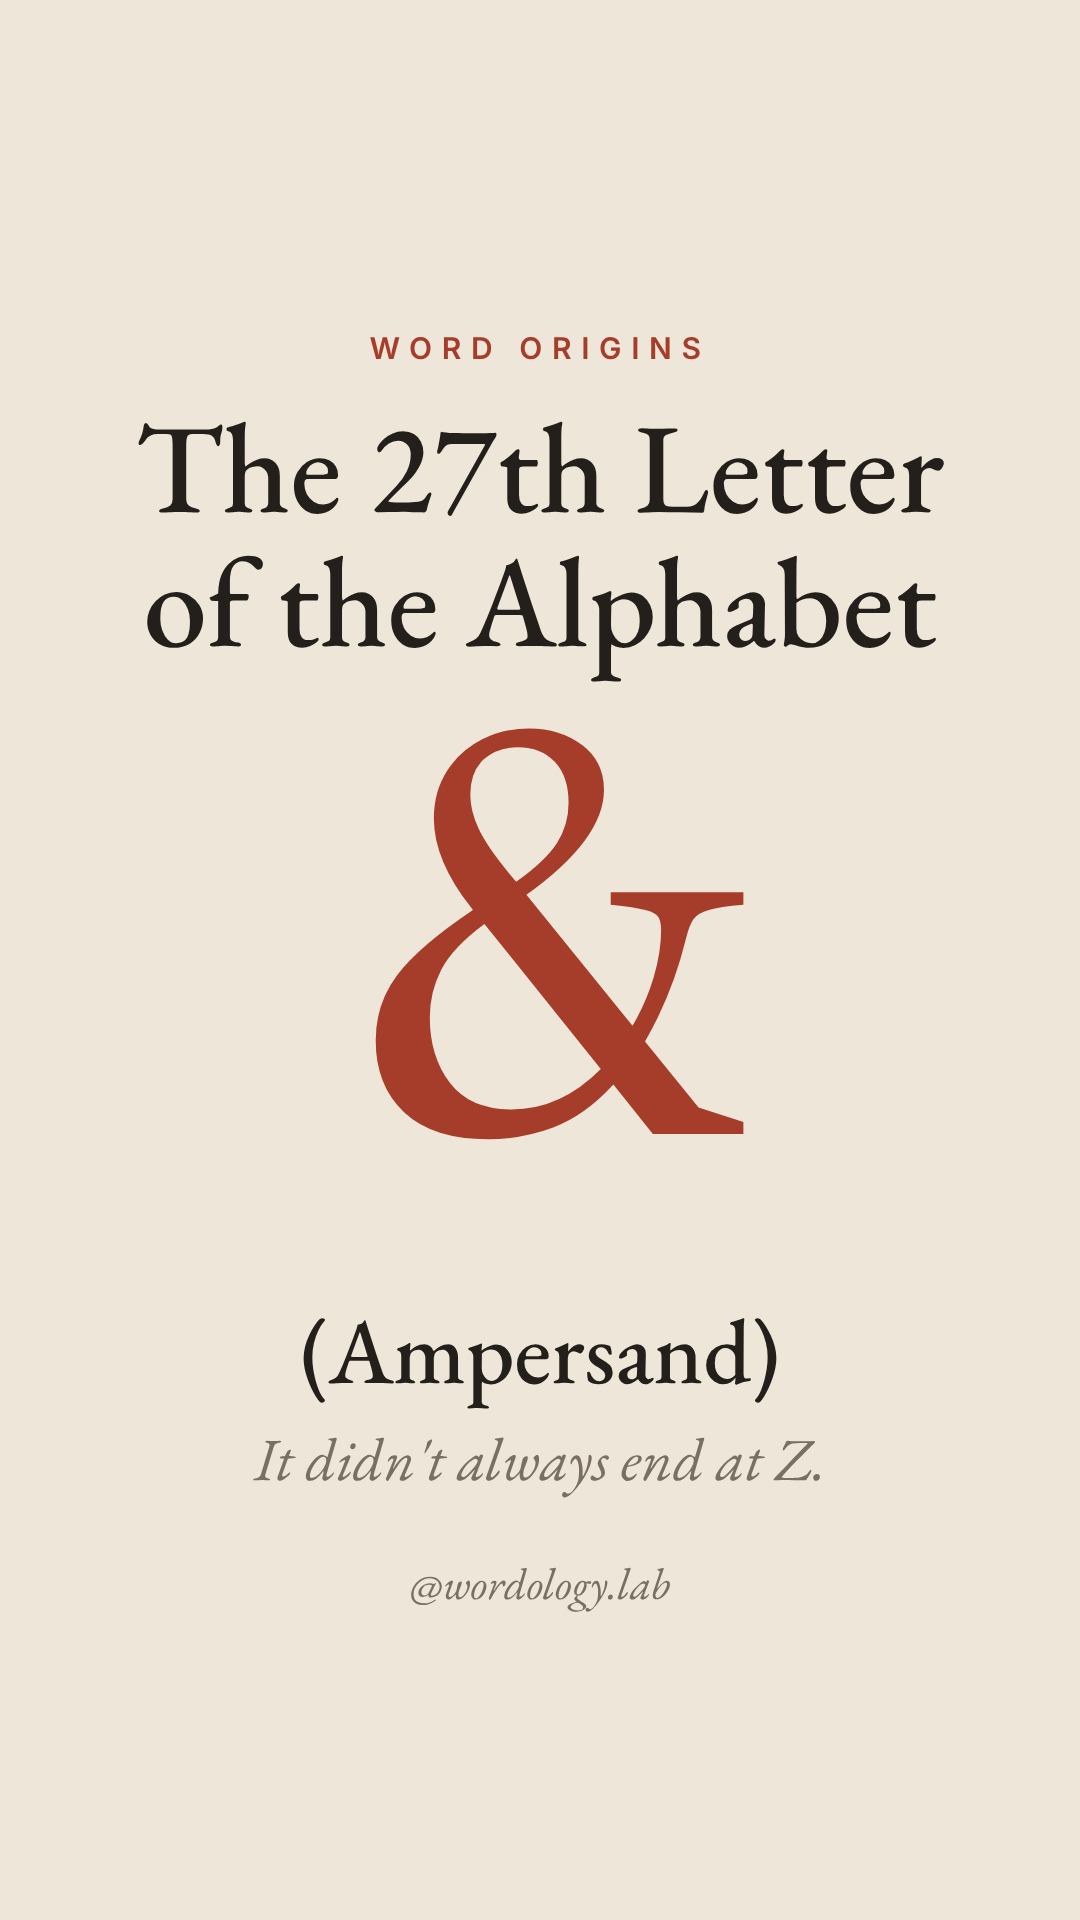
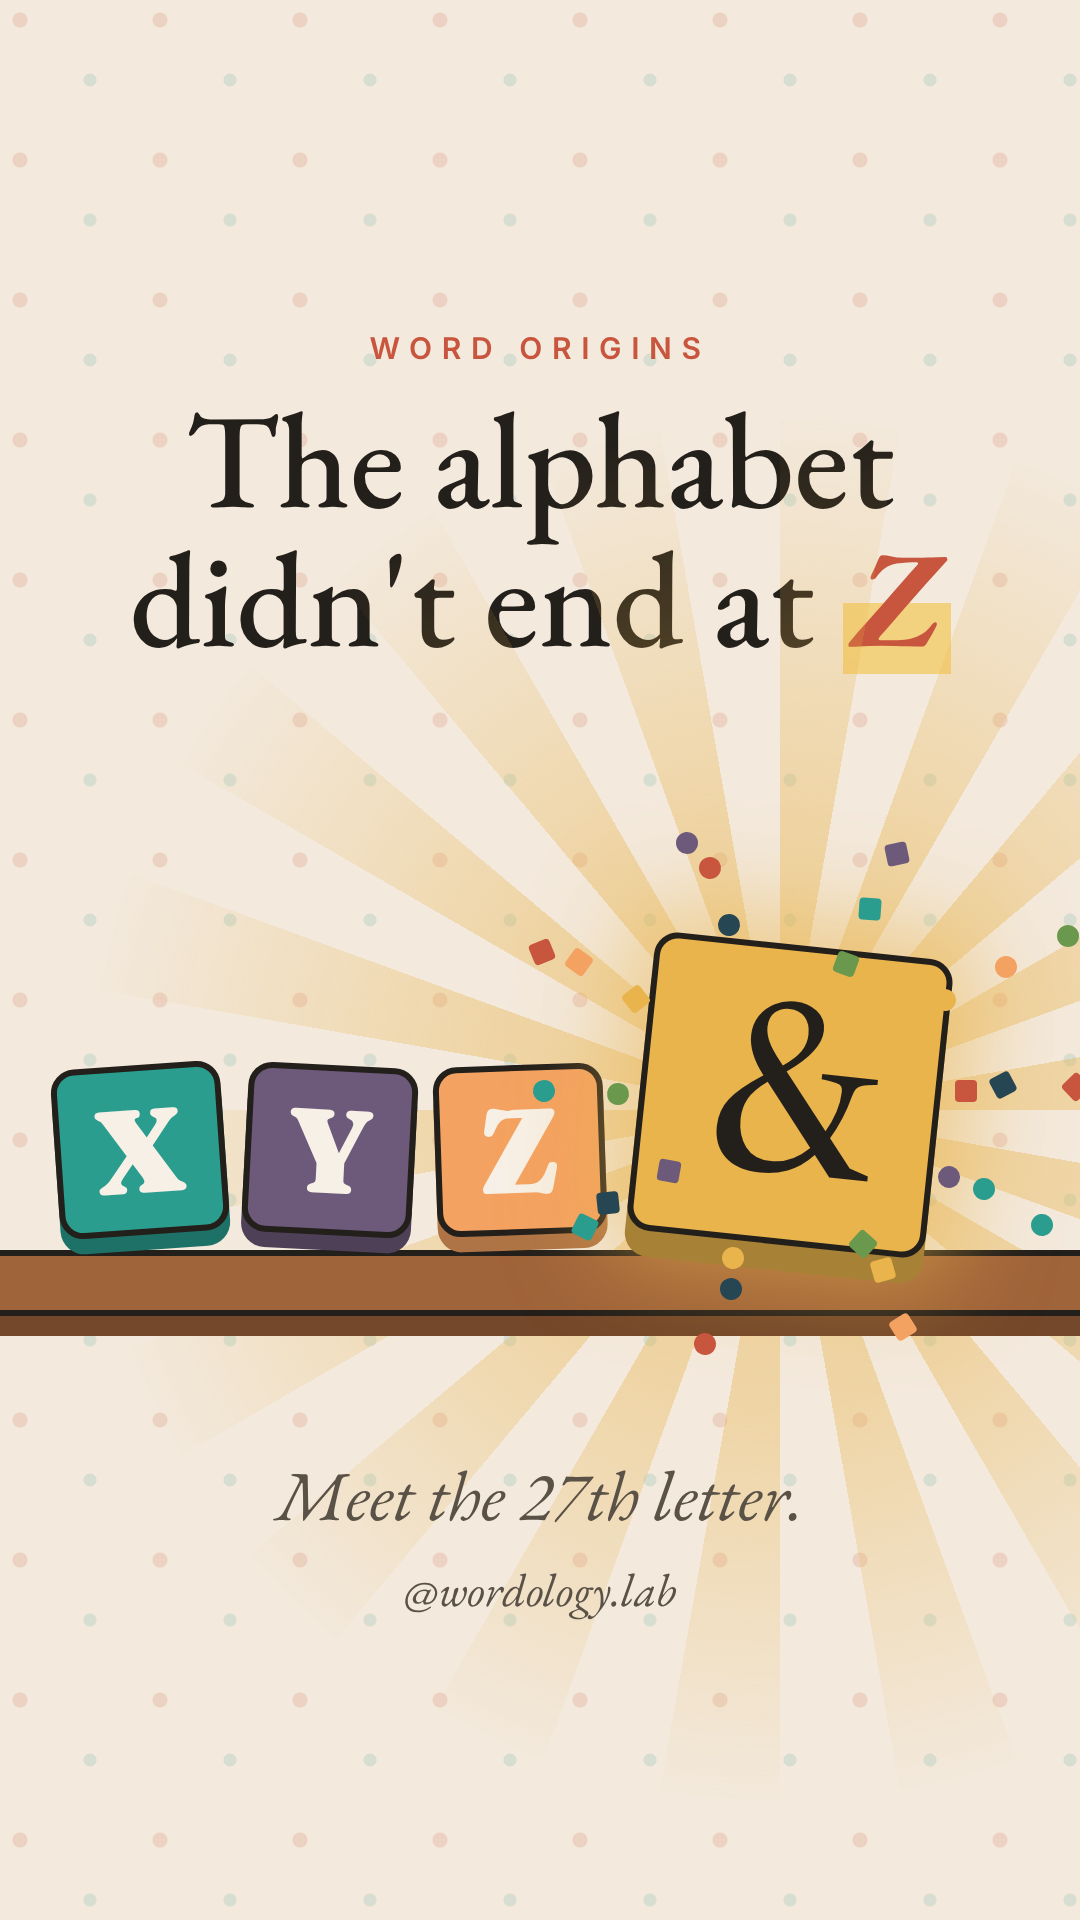
Add illustrated cover options for ampersand reel
Claude-Session: https://claude.ai/code/session_01EaoD2vJ7pfBGwSYwp9JsFd

Changed region(s): [[0.0, 0.2188, 1.0, 0.8438], [0.3361, 0.1562, 0.4583, 0.1875], [0.4889, 0.1562, 0.5194, 0.1875]]

diff --git a/reels/src-v2/cover4.html b/reels/src-v2/cover4.html
@@ -1,0 +1,47 @@
+<!doctype html><html><head><meta charset="utf-8"><style>
+html,body{margin:0}
+#c{position:relative;width:1080px;height:1920px;overflow:hidden;font-family:"EB Garamond";color:#231F1B;
+ background:#F3E9DC;background-image:radial-gradient(circle at 20px 20px, rgba(200,85,61,.16) 7px, transparent 8px),radial-gradient(circle at 90px 80px, rgba(42,157,143,.14) 6px, transparent 7px);background-size:140px 140px}
+.a{position:absolute}
+.blk{position:absolute;box-sizing:border-box;border:6px solid #231F1B;border-radius:24px;display:flex;align-items:center;justify-content:center;font:900 130px Fraunces;color:#F7F0E6}
+.shelf{position:absolute;left:-20px;right:-20px;height:54px;background:#A0643A;border:6px solid #231F1B;border-radius:10px;box-shadow:0 20px 0 #74482A}
+.t{position:absolute;left:0;right:0;text-align:center}
+.mk{background:linear-gradient(#F3D27F,#F3D27F) no-repeat 0 88%/100% 40%;padding:0 10px}
+.conf{position:absolute;width:22px;height:22px}
+.rays{position:absolute;width:1400px;height:1400px;border-radius:50%;background:repeating-conic-gradient(rgba(233,180,76,.38) 0 10deg,transparent 10deg 20deg);-webkit-mask:radial-gradient(circle,#000 30%,transparent 70%)}
+</style></head><body><div id="c"></div>
+<script>
+const v=new URLSearchParams(location.search).get('v')||'a', c=document.getElementById('c');
+const add=(h)=>c.insertAdjacentHTML('beforeend',h);
+const col={rust:'#C8553D',teal:'#2A9D8F',mus:'#E9B44C',plum:'#6D597A',coral:'#F4A261',navy:'#264653',green:'#6A994E'};
+const sh=(x)=>{const n=parseInt(x.slice(1),16);return `rgb(${(n>>16)*.72|0},${((n>>8)&255)*.72|0},${(n&255)*.72|0})`};
+const blk=(ch,x,y,s,cl,rot=0,font)=>add(`<div class="blk" style="left:${x-s/2}px;top:${y-s/2}px;width:${s}px;height:${s}px;background:${cl};box-shadow:0 ${s*.09}px 0 ${sh(cl)};transform:rotate(${rot}deg);${font?'font:'+font+';color:#231F1B':''};font-size:${font?'':s*.7+'px'}">${ch}</div>`);
+const conf=(cx,cy,n,R)=>{const cs=Object.values(col);for(let i=0;i<n;i++){const a=i/n*6.283+(i%3)*.4,d=R*(.5+((i*37)%10)/18);add(`<div class="conf" style="left:${cx+Math.cos(a)*d}px;top:${cy+Math.sin(a)*d*.8}px;background:${cs[i%cs.length]};border-radius:${i%2?'50%':'4px'};transform:rotate(${i*37}deg)"></div>`)}};
+if(v==='a'){ // hook: the alphabet didn't end at Z
+  add(`<div class="t" style="top:330px;font:600 30px Inter;letter-spacing:.32em;color:${col.rust}">WORD ORIGINS</div>`);
+  add(`<div class="t" style="top:390px;font:500 136px/1.02 'EB Garamond'">The alphabet<br>didn't end at <span class="mk" style="font-style:italic;font-weight:700;color:${col.rust}">Z</span></div>`);
+  add(`<div class="rays" style="left:${780-700}px;top:${1110-700}px"></div>`);
+  add(`<div class="shelf" style="top:1250px"></div>`);
+  blk('X',140,1150,170,col.teal,-4); blk('Y',330,1150,170,col.plum,3); blk('Z',520,1150,170,col.coral,-2);
+  add(`<div class="blk" style="left:${790-150}px;top:${1095-150}px;width:300px;height:300px;background:${col.mus};box-shadow:0 26px 0 ${sh(col.mus)},0 0 90px 30px rgba(233,180,76,.55);font:400 220px 'Libre Caslon Text';color:#231F1B;transform:rotate(6deg)">&amp;</div>`);
+  conf(790,1080,30,330);
+  add(`<div class="t" style="top:1450px;font:italic 500 70px 'EB Garamond';color:#5A5247">Meet the 27th letter.</div>`);
+}
+if(v==='b'){ // the 27th letter, big block
+  add(`<div class="rays" style="left:-160px;top:${1000-700}px"></div>`);
+  add(`<div class="t" style="top:330px;font:600 30px Inter;letter-spacing:.32em;color:${col.rust}">WORD ORIGINS</div>`);
+  add(`<div class="t" style="top:390px;font:500 150px/1 'EB Garamond'">The <span class="mk" style="font-style:italic;font-weight:700;color:${col.rust}">27th</span> letter</div>`);
+  add(`<div class="blk" style="left:${540-230}px;top:${1010-230}px;width:460px;height:460px;background:${col.mus};box-shadow:0 38px 0 ${sh(col.mus)},0 0 120px 40px rgba(233,180,76,.5);font:400 340px 'Libre Caslon Text';color:#231F1B;transform:rotate(-4deg)">&amp;</div>`);
+  conf(540,1000,34,430);
+  add(`<div class="t" style="top:1380px;font:italic 500 74px 'EB Garamond';color:#5A5247">You use it every day.</div>`);
+}
+if(v==='c'){ // mystery: empty slot after Z
+  add(`<div class="t" style="top:330px;font:600 30px Inter;letter-spacing:.32em;color:${col.rust}">WORD ORIGINS</div>`);
+  add(`<div class="t" style="top:390px;font:500 128px/1.04 'EB Garamond'">What came<br><span class="mk" style="font-style:italic;font-weight:700;color:${col.rust}">after Z?</span></div>`);
+  add(`<div class="shelf" style="top:1210px"></div>`);
+  blk('W',120,1110,160,col.green,-3); blk('X',300,1110,160,col.teal,2); blk('Y',480,1110,160,col.plum,-2); blk('Z',660,1110,160,col.coral,3);
+  add(`<div class="a" style="left:${880-85}px;top:${1110-85}px;width:170px;height:170px;box-sizing:border-box;border:8px dashed ${col.rust};border-radius:24px;display:flex;align-items:center;justify-content:center;font:700 130px Fraunces;color:${col.rust};background:rgba(200,85,61,.08)">?</div>`);
+  add(`<div class="t" style="top:1400px;font:italic 500 70px 'EB Garamond';color:#5A5247">Kids used to know.</div>`);
+}
+add(`<div class="t" style="top:1560px;font:italic 500 46px 'EB Garamond';color:#5A5247">@wordology.lab</div>`);
+</script></body></html>
